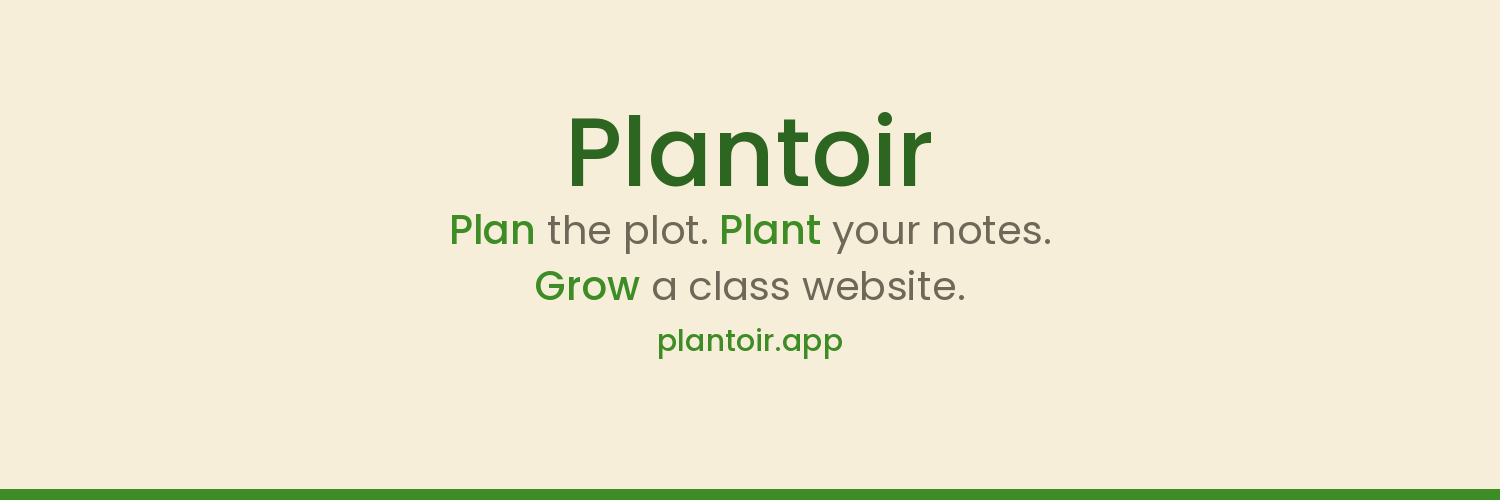
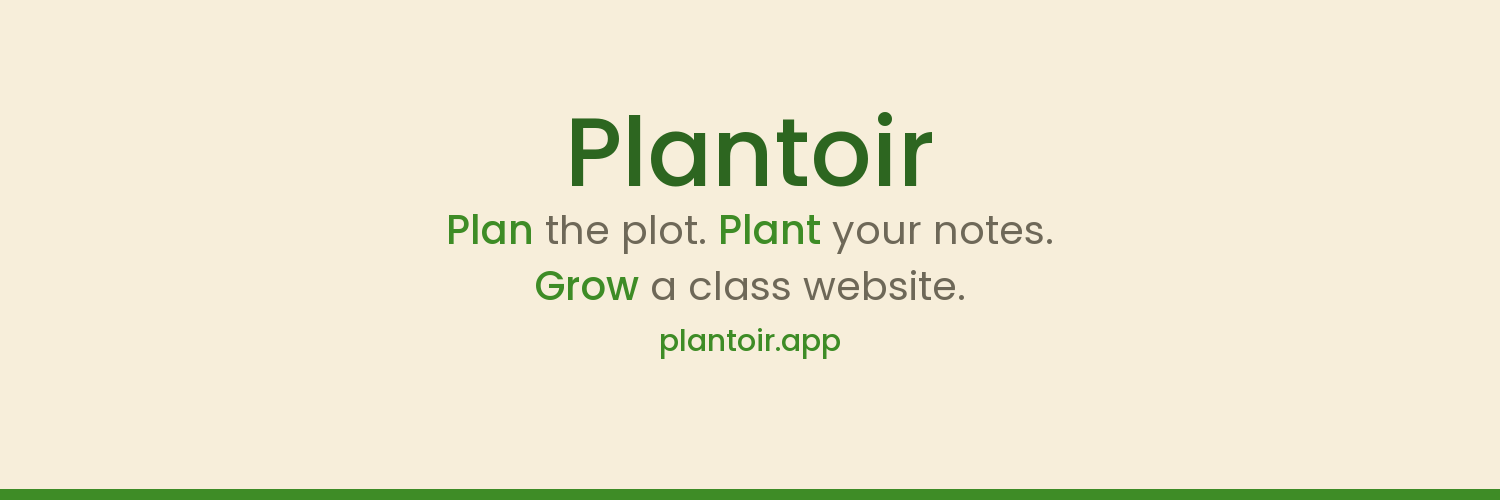
Update website for v1.9.0 on Windows: the Windows card unpinned, GeoGebra available on both, brand images re-encoded by Pillow (no pixel changed)
Claude-Session: https://claude.ai/code/session_01KMjC2sDiaXyEzf3mGB6GP7

diff --git a/site/index.html b/site/index.html
@@ -119,9 +119,9 @@
       <span class="platform">macOS</span>
       <span class="meta">macOS 15 or later, Apple silicon</span>
     </a>
-    <a class="dl" href="https://github.com/russellgordon/plantoir/releases/download/v1.8.7/PlantoirSetup.exe">
+    <a class="dl" href="https://github.com/russellgordon/plantoir/releases/latest/download/PlantoirSetup.exe">
       <span class="platform">Windows</span>
-      <span class="meta">Windows 10 or 11, 64-bit &middot; version 1.8.7</span>
+      <span class="meta">Windows 10 or 11, 64-bit</span>
     </a>
   </div>
   <!-- AUTO-UPDATED when a release is cut: the version and date come from

diff --git a/site/visualizations/index.html b/site/visualizations/index.html
@@ -230,7 +230,7 @@ alt: Three right triangles that share one marked angle set by a slider.
   <div class="note">
     <p>Every sketch carries “Made with GeoGebra®”, linked to geogebra.org, as GeoGebra asks of anyone who shows its sketches.</p>
   </div>
-  <p class="availability">On the Mac. The Windows version gets this in a later release.</p>
+  
 </section>
 
 <hr class="rule">
